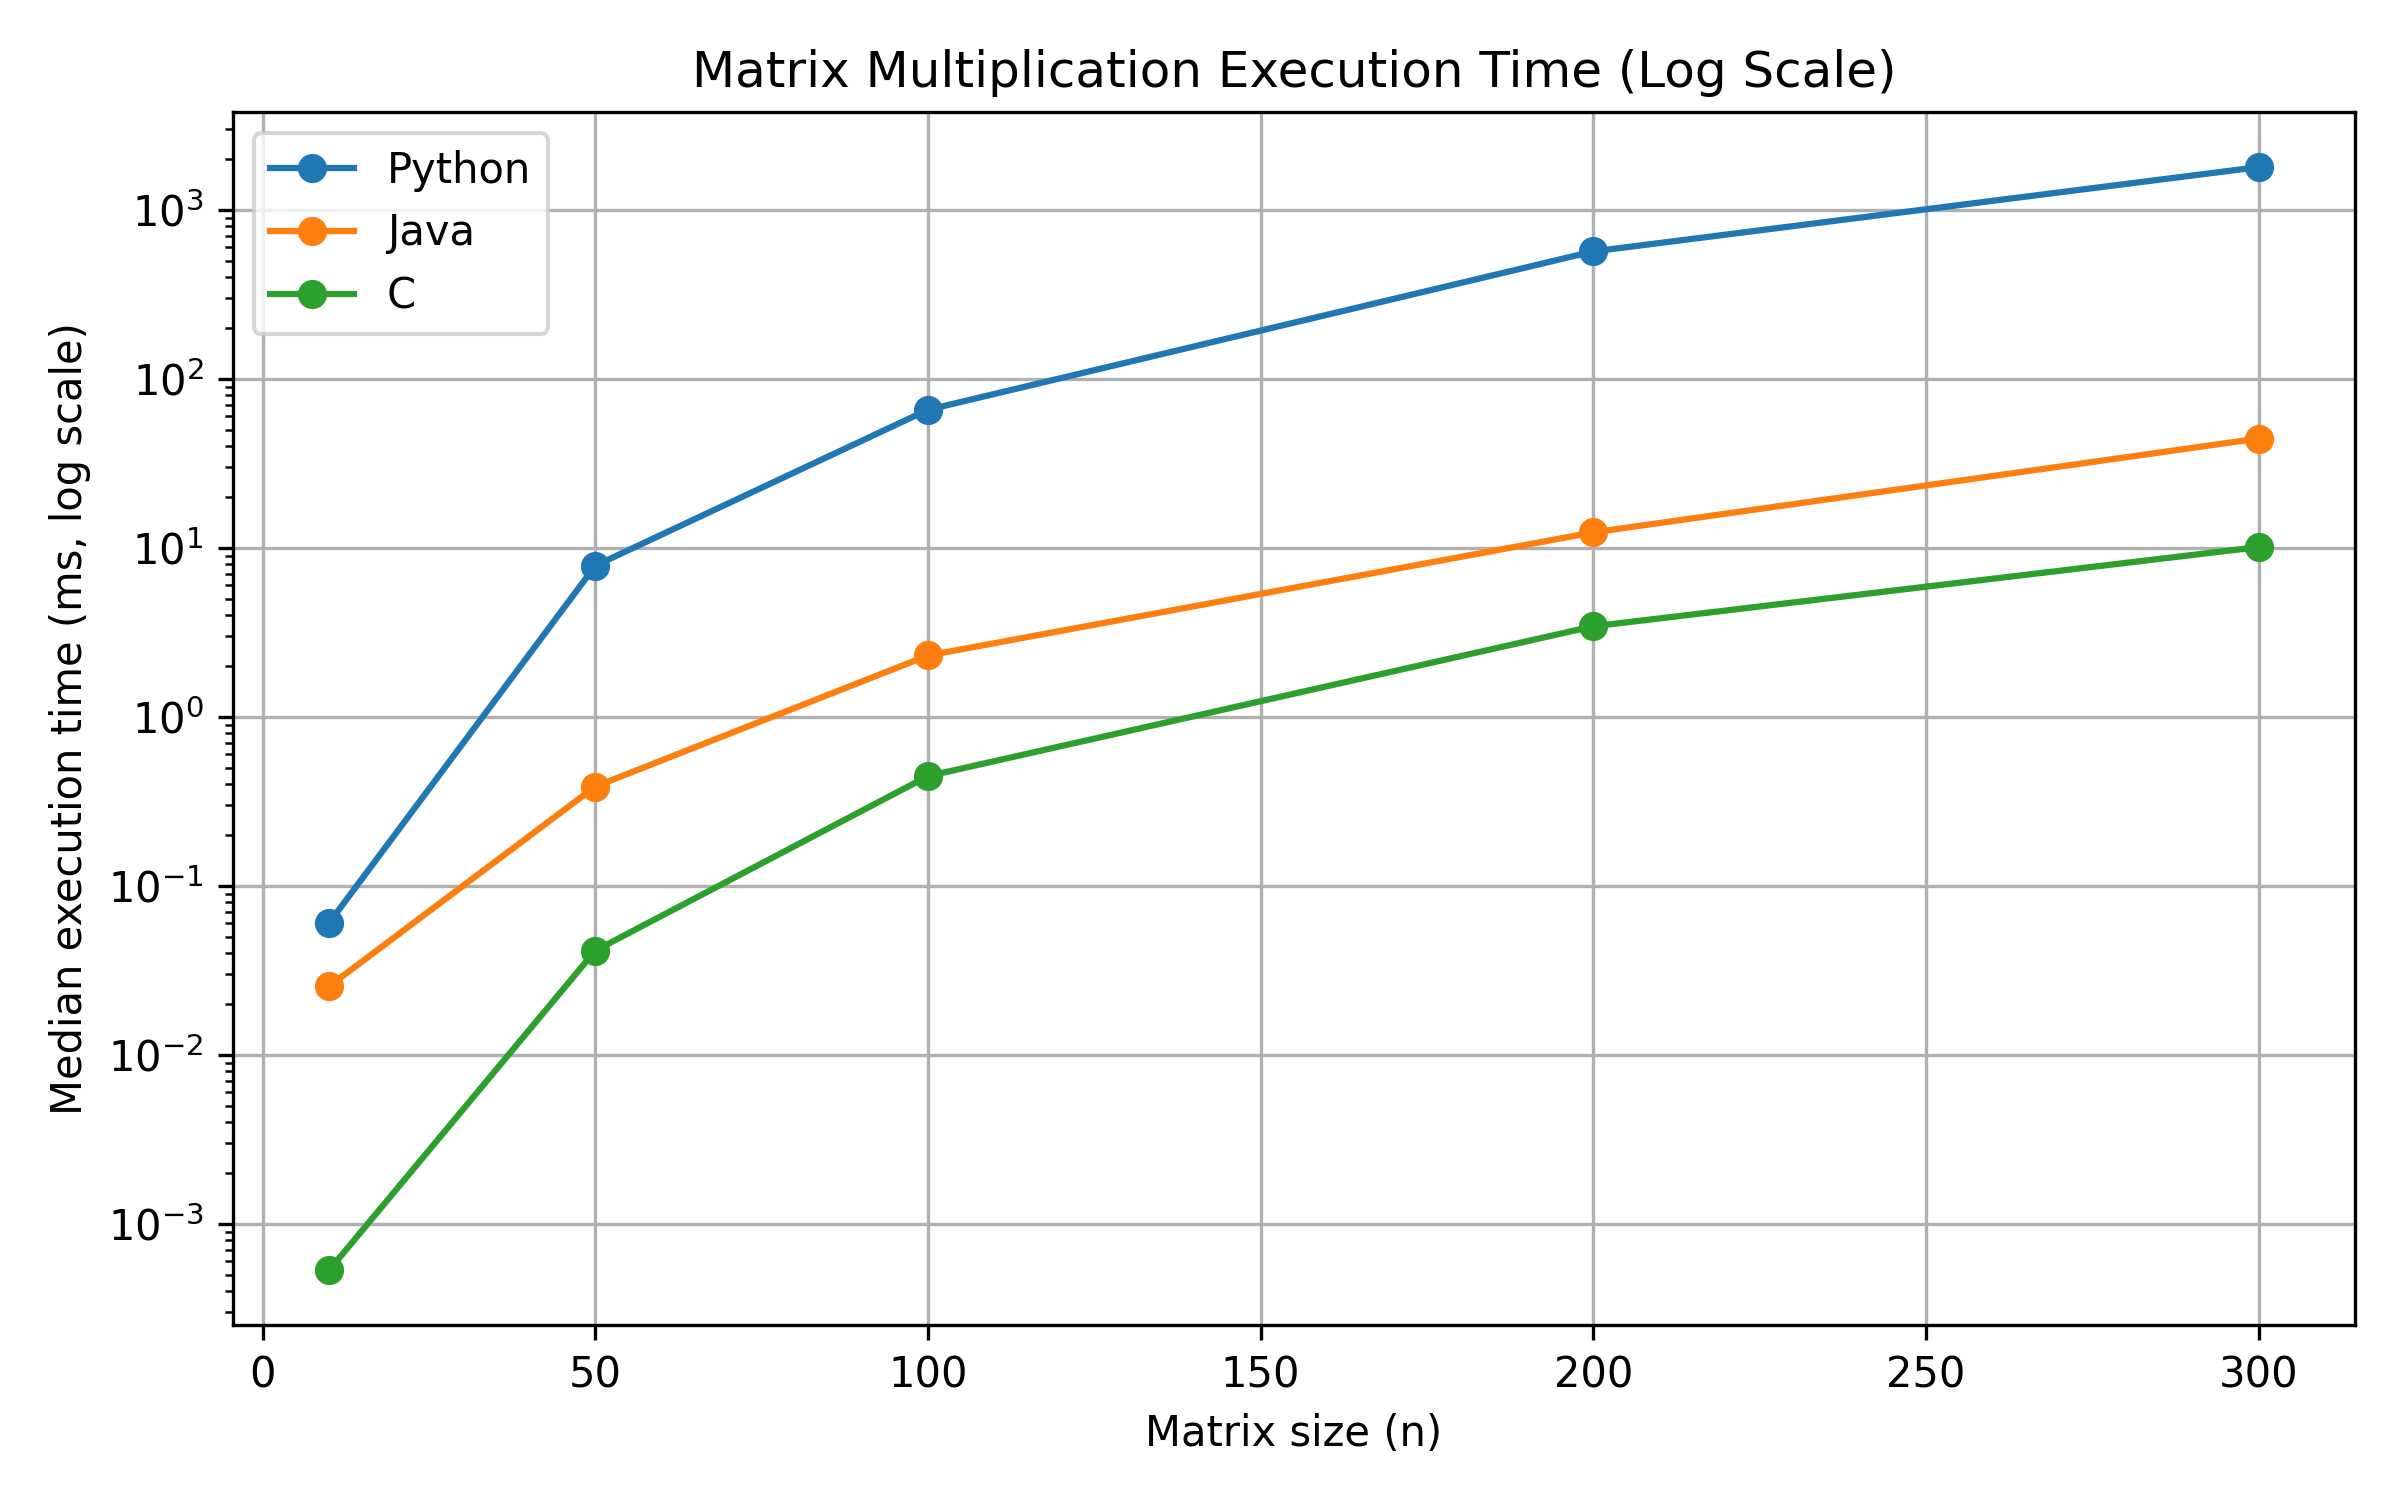
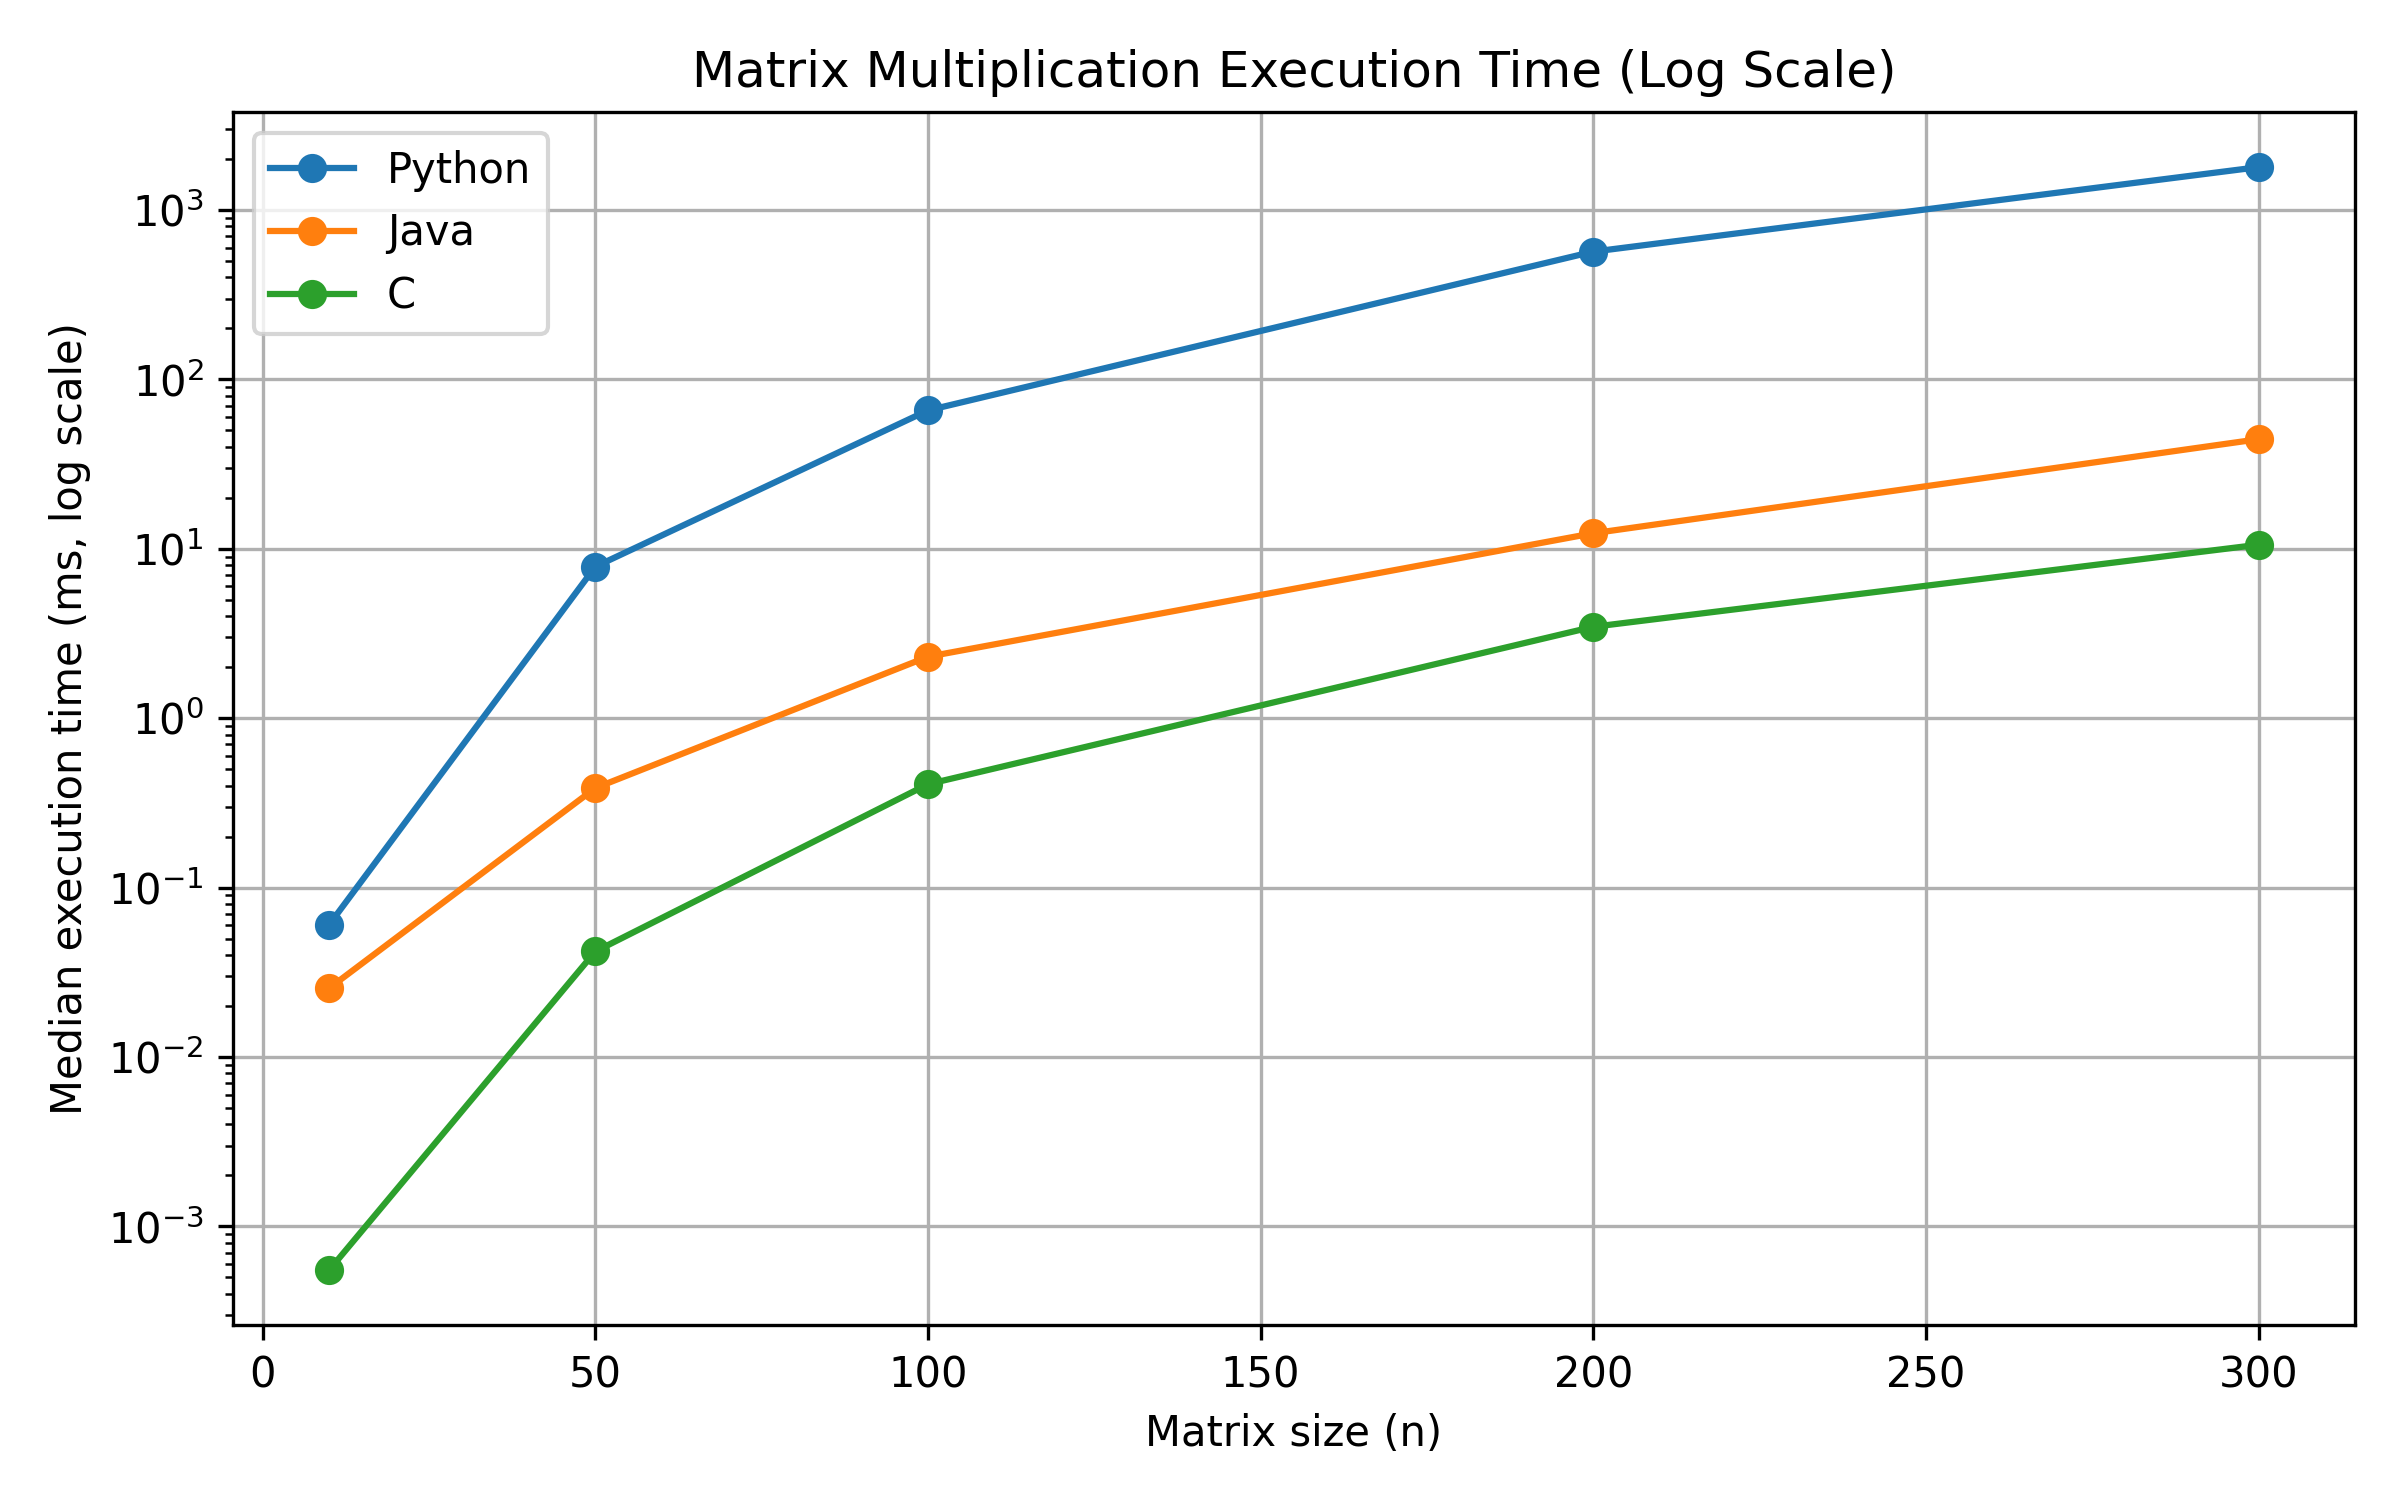
Refine C benchmarking and update performance figures

diff --git a/c/matrix_multiplication.c b/c/matrix_multiplication.c
@@ -131,13 +131,13 @@ void benchmark(int n, int repetitions, FILE *csv) {
 
         for (int b = 0; b < batch_size; b++) {
             matrix_multiplication(n, A, B, C);
+            checksum_sink = C[0][0];
         }
 
         double end = current_time();
         double elapsed = (end - start) / batch_size;
 
 
-        checksum_sink = matrix_checksum(n, C);
         times[rep - 1] = elapsed;
 
         fprintf(csv, "C,%d,%d,%d,%.9f\n", n, rep, batch_size, elapsed);
